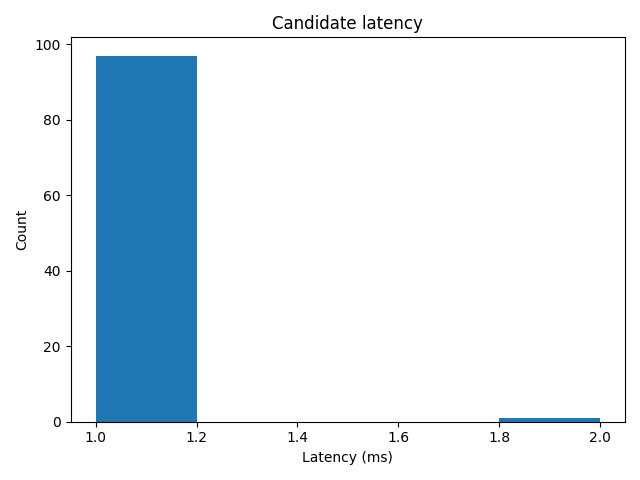
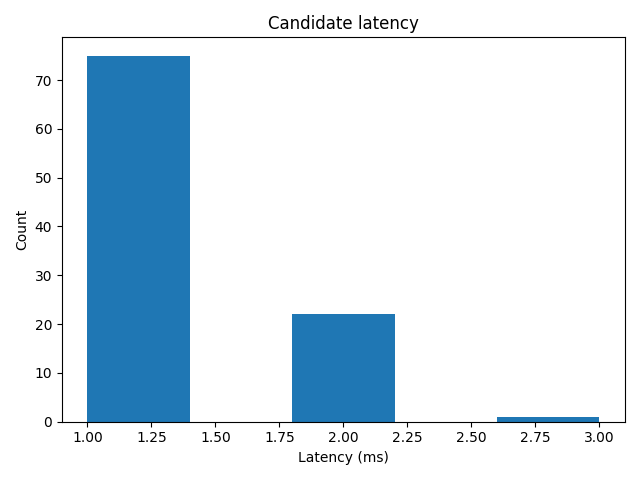
Refresh report artifacts

diff --git a/report/index.html b/report/index.html
@@ -2,7 +2,7 @@
 <html lang="en">
 <head>
   <meta charset="utf-8">
-  <title>Baseline vs Candidate • 7213aadb</title>
+  <title>Baseline vs Candidate • a56b80e1</title>
   <meta name="viewport" content="width=device-width, initial-scale=1">
   <style>
     body{font:14px/1.45 -apple-system,BlinkMacSystemFont,Segoe UI,Roboto,Helvetica,Arial,sans-serif;margin:16px;color:#111}
@@ -22,7 +22,7 @@
 <body>
   <h1>Baseline vs Candidate</h1>
   <div class="meta">
-    Run: <b>7213aadb</b> • Samples: <b>98</b> • Dataset SHA: <b>6572c84e2d7fd838208be7b7ffa6180c912594d97d1ea1e0d239421266bd3bb3</b> • Generated: 2025-10-01 21:38 • Policy: v0.1
+    Run: <b>a56b80e1</b> • Samples: <b>98</b> • Dataset SHA: <b>6572c84e2d7fd838208be7b7ffa6180c912594d97d1ea1e0d239421266bd3bb3</b> • Generated: 2025-10-02 01:52 • Policy: v0.1
     <br>Engines → Baseline: <b>rules-v1</b> • Candidate: <b>candidate-v1</b>
   </div>
 
@@ -53,7 +53,7 @@
         <div>FNR: <b>0.256</b></div>
         <div>FPR: <b>0.0</b>
           <span class="meta">(0.0–0.324)</span></div>
-        <div>Latency p50/p90/p99 (ms): 1/1/1</div>
+        <div>Latency p50/p90/p99 (ms): 1/2/2</div>
       </div>
       <div class="card">
         <h2>Confusion — Strict</h2>
@@ -243,7 +243,7 @@
         <div>FNR: <b>0.125</b></div>
         <div>FPR: <b>0.154</b>
           <span class="meta">(0.061–0.335)</span></div>
-        <div>Latency p50/p90/p99 (ms): 1/1/1</div>
+        <div>Latency p50/p90/p99 (ms): 1/2/2</div>
       </div>
       <div class="card">
         <h2>Confusion — Lenient</h2>
